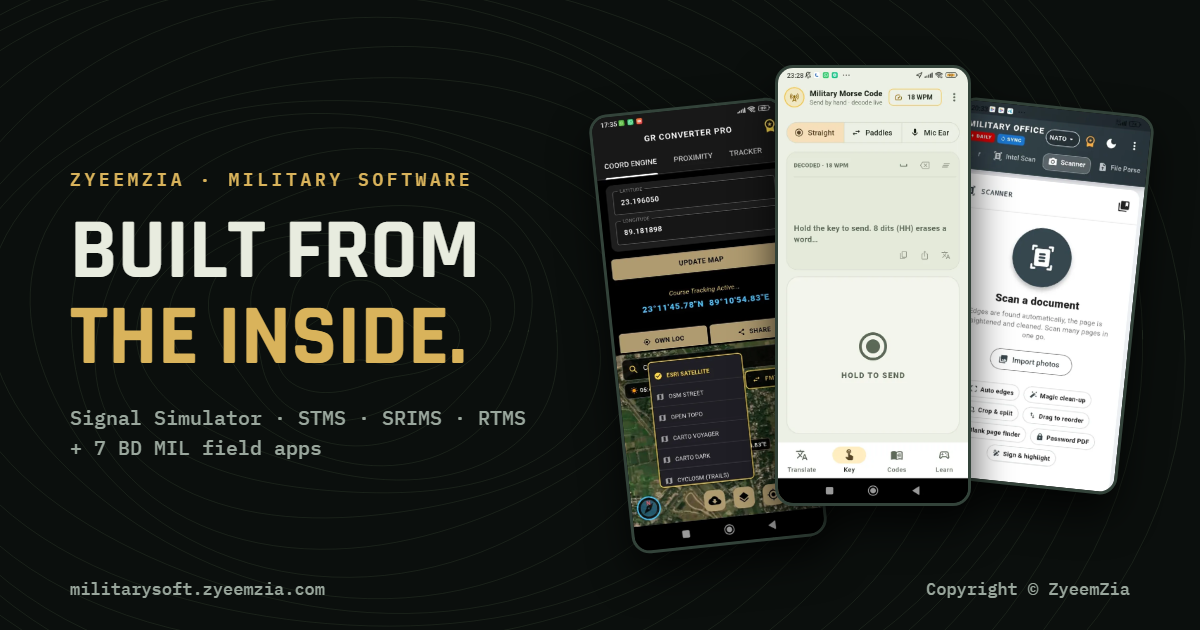
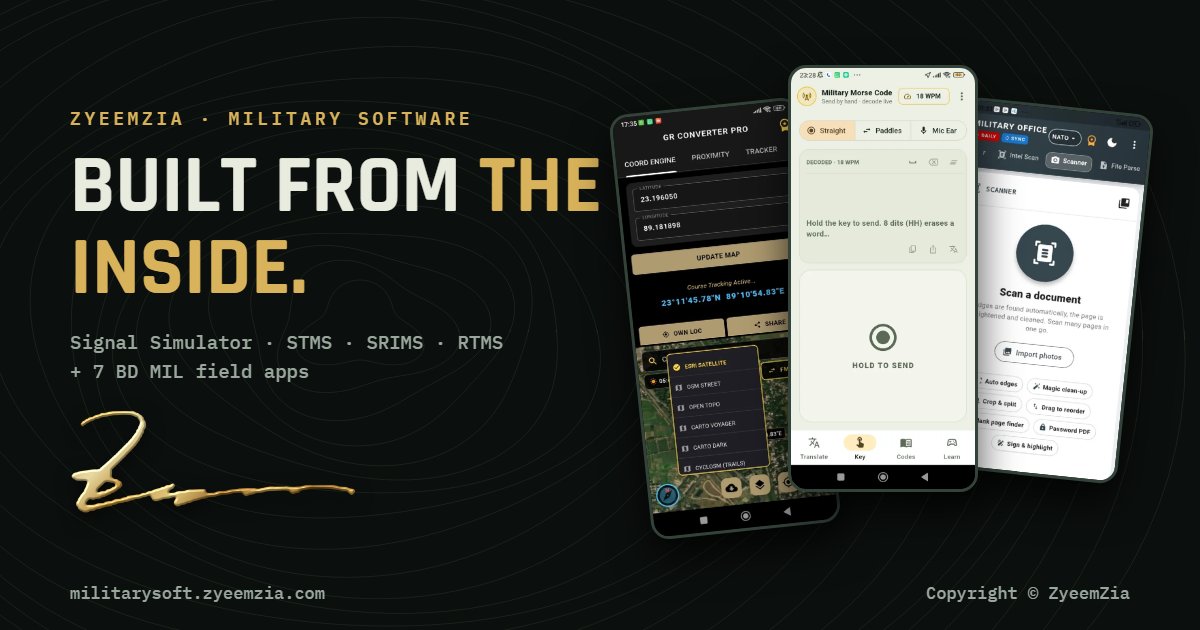
Gold signature, day and night ops themes, refreshed content
Copyright © ZyeemZia

diff --git a/style.css b/style.css
@@ -1,29 +1,42 @@
 /* Layout concept: a field-operations briefing file — night map ground with contour lines, serial-numbered
-   sections, data set in mono like a signal log, gold-leaf accent taken from the BD MIL app family. Single dark look by design. */
+   sections, data set in mono like a signal log, gold-leaf accent taken from the BD MIL app family; the developer's signature is plated in gold. Night ops (dark) and Day ops (light) themes. */
 :root {
-  --bg: #0b0f0d;
-  --bg-2: #101613;
-  --panel: #131a16;
-  --panel-2: #18211c;
-  --line: #24302a;
-  --line-2: #33433a;
-  --ink: #e8ecdf;
-  --muted: #9aa79d;
-  --dim: #6b7a70;
-  --sand: #d9b35b;
-  --sand-2: #f0d48d;
-  --olive: #8fae7e;
-  --red: #d8664f;
+  --bg: #0b0f0d; --bg-2: #101613; --panel: #131a16; --panel-2: #18211c; --line: #24302a; --line-2: #33433a;
+  --ink: #e8ecdf; --muted: #9aa79d; --dim: #6b7a70; --sand: #d9b35b; --sand-2: #f0d48d; --olive: #8fae7e; --red: #d8664f;
+  --on-sand: #0b0f0d; --contour: rgba(143,174,126,.075); --contour-major: rgba(217,179,91,.16); --grid: rgba(255,255,255,.025);
+  --shadow: rgba(0,0,0,.9); --glass: color-mix(in srgb, #0b0f0d 82%, transparent); --sign-shadow: rgba(0,0,0,.55);
+  color-scheme: dark;
   --f-display: "Rajdhani", "Bahnschrift", "Segoe UI", sans-serif;
   --f-body: "IBM Plex Sans", "Segoe UI", system-ui, sans-serif;
   --f-mono: "IBM Plex Mono", "Cascadia Mono", Consolas, monospace;
   --maxw: 1180px;
+}
+/* Day ops: survey-map paper. Follows the device setting unless the visitor picks a theme. */
+@media (prefers-color-scheme: light) { :root:not([data-theme="dark"]) {
+  --bg: #eef1ea; --bg-2: #e6eae1; --panel: #fbfcf8; --panel-2: #f1f4ec; --line: #d3dacb; --line-2: #b9c3ae;
+  --ink: #17221c; --muted: #4e5d52; --dim: #78867b; --sand: #9a7322; --sand-2: #7d5c16; --olive: #48683f; --red: #b2442f;
+  --on-sand: #fbfcf8; --contour: rgba(72,104,63,.12); --contour-major: rgba(154,115,34,.22); --grid: rgba(23,34,28,.05);
+  --shadow: rgba(40,52,38,.35); --glass: color-mix(in srgb, #eef1ea 84%, transparent); --sign-shadow: rgba(90,64,12,.35);
+  color-scheme: light;
+} }
+:root[data-theme="light"] {
+  --bg: #eef1ea; --bg-2: #e6eae1; --panel: #fbfcf8; --panel-2: #f1f4ec; --line: #d3dacb; --line-2: #b9c3ae;
+  --ink: #17221c; --muted: #4e5d52; --dim: #78867b; --sand: #9a7322; --sand-2: #7d5c16; --olive: #48683f; --red: #b2442f;
+  --on-sand: #fbfcf8; --contour: rgba(72,104,63,.12); --contour-major: rgba(154,115,34,.22); --grid: rgba(23,34,28,.05);
+  --shadow: rgba(40,52,38,.35); --glass: color-mix(in srgb, #eef1ea 84%, transparent); --sign-shadow: rgba(90,64,12,.35);
+  color-scheme: light;
+}
+:root[data-theme="dark"] {
+  --bg: #0b0f0d; --bg-2: #101613; --panel: #131a16; --panel-2: #18211c; --line: #24302a; --line-2: #33433a;
+  --ink: #e8ecdf; --muted: #9aa79d; --dim: #6b7a70; --sand: #d9b35b; --sand-2: #f0d48d; --olive: #8fae7e; --red: #d8664f;
+  --on-sand: #0b0f0d; --contour: rgba(143,174,126,.075); --contour-major: rgba(217,179,91,.16); --grid: rgba(255,255,255,.025);
+  --shadow: rgba(0,0,0,.9); --glass: color-mix(in srgb, #0b0f0d 82%, transparent); --sign-shadow: rgba(0,0,0,.55);
   color-scheme: dark;
 }
 * { box-sizing: border-box; }
 [hidden] { display: none !important; }
 html { scroll-behavior: smooth; -webkit-text-size-adjust: 100%; }
-body { margin: 0; overflow-x: clip; background: var(--bg); color: var(--ink); font: 16px/1.65 var(--f-body); }
+body { margin: 0; overflow-x: clip; background: var(--bg); color: var(--ink); transition: background-color .4s, color .4s; font: 16px/1.65 var(--f-body); }
 img { max-width: 100%; display: block; }
 a { color: var(--sand); text-decoration: none; }
 a:hover { color: var(--sand-2); }
@@ -34,10 +47,10 @@ p { margin: 0; }
 .wrap { max-width: var(--maxw); margin: 0 auto; padding-left: max(20px, env(safe-area-inset-left, 0px)); padding-right: max(20px, env(safe-area-inset-right, 0px)); }
 
 /* contour canvas sits behind everything */
-#contours { position: fixed; inset: 0; width: 100%; height: 100%; z-index: -1; opacity: .55; pointer-events: none; }
+#contours { position: fixed; inset: 0; width: 100%; height: 100%; z-index: -1; opacity: .7; pointer-events: none; }
 
 /* ---------- header ---------- */
-.top { position: sticky; top: 0; z-index: 20; background: color-mix(in srgb, var(--bg) 82%, transparent); backdrop-filter: blur(10px); -webkit-backdrop-filter: blur(10px); border-bottom: 1px solid var(--line); padding-top: env(safe-area-inset-top, 0px); }
+.top { position: sticky; top: 0; z-index: 20; background: var(--glass); backdrop-filter: blur(10px); -webkit-backdrop-filter: blur(10px); border-bottom: 1px solid var(--line); padding-top: env(safe-area-inset-top, 0px); }
 .top .wrap { display: flex; align-items: center; gap: 20px; padding-block: 12px; }
 .brand { display: flex; align-items: center; gap: 12px; color: var(--ink); }
 .brand-mark { width: 36px; height: 36px; display: grid; place-items: center; border: 1.5px solid var(--sand); color: var(--sand); font: 700 15px var(--f-display); letter-spacing: .04em; position: relative; }
@@ -49,8 +62,8 @@ p { margin: 0; }
 .nav { margin-left: auto; display: flex; gap: 4px; }
 .nav a { color: var(--muted); font: 600 14px var(--f-display); letter-spacing: .12em; text-transform: uppercase; padding: 8px 12px; border-radius: 4px; }
 .nav a:hover { color: var(--ink); background: var(--panel); }
-.nav a.cta { color: var(--bg); background: var(--sand); }
-.nav a.cta:hover { background: var(--sand-2); color: var(--bg); }
+.nav a.cta { color: var(--on-sand); background: var(--sand); }
+.nav a.cta:hover { background: var(--sand-2); color: var(--on-sand); }
 
 /* ---------- hero ---------- */
 .hero { position: relative; padding-block: 72px 56px; border-bottom: 1px solid var(--line); overflow-x: clip; }
@@ -63,8 +76,8 @@ p { margin: 0; }
 .hero-actions { display: flex; gap: 12px; flex-wrap: wrap; margin-top: 28px; }
 .btn { display: inline-flex; align-items: center; gap: 10px; padding: 12px 20px; border: 1.5px solid var(--line-2); color: var(--ink); font: 700 15px var(--f-display); letter-spacing: .14em; text-transform: uppercase; border-radius: 3px; background: var(--panel); }
 .btn:hover { border-color: var(--sand); color: var(--ink); }
-.btn.primary { background: var(--sand); color: var(--bg); border-color: var(--sand); }
-.btn.primary:hover { background: var(--sand-2); color: var(--bg); }
+.btn.primary { background: var(--sand); color: var(--on-sand); border-color: var(--sand); }
+.btn.primary:hover { background: var(--sand-2); color: var(--on-sand); }
 .btn svg { width: 16px; height: 16px; }
 
 .hero-visual { position: relative; aspect-ratio: 1 / 1; max-width: 100%; }
@@ -112,10 +125,11 @@ section.block { padding-block: 88px 40px; scroll-margin-top: 70px; }
 .mini-tl div::before { content: ""; position: absolute; left: -23.5px; top: .5em; width: 9px; height: 9px; background: var(--bg); border: 1.5px solid var(--olive); transform: rotate(45deg); }
 .mini-tl b { font: 600 12.5px var(--f-mono); color: var(--ink); letter-spacing: .06em; margin-right: 8px; }
 
-.window { border: 1px solid var(--line-2); background: var(--panel); border-radius: 6px; overflow: hidden; box-shadow: 0 24px 60px -30px rgba(0, 0, 0, .9); }
+.window { border: 1px solid var(--line-2); background: var(--panel); border-radius: 6px; overflow: hidden; box-shadow: 0 24px 60px -30px var(--shadow); }
 .window-bar { display: flex; align-items: center; gap: 7px; padding: 9px 12px; border-bottom: 1px solid var(--line); background: var(--panel-2); }
 .window-bar i { width: 10px; height: 10px; border-radius: 50%; background: var(--line-2); }
-.window-bar span { margin-left: 10px; font: 500 12px var(--f-mono); color: var(--muted); letter-spacing: .06em; white-space: nowrap; overflow: hidden; text-overflow: ellipsis; }
+.window-bar > span { margin-left: 10px; font: 500 12px var(--f-mono); color: var(--muted); letter-spacing: .06em; white-space: nowrap; overflow: hidden; text-overflow: ellipsis; min-width: 0; flex: 1; }
+.bar-seal { font-style: normal; flex-shrink: 0; }
 .window-shot { display: block; width: 100%; aspect-ratio: 16 / 10; object-fit: cover; object-position: top left; background: var(--bg-2); cursor: zoom-in; border: 0; padding: 0; }
 .window-shot img { width: 100%; height: 100%; object-fit: cover; object-position: top left; }
 .thumbs { display: flex; gap: 8px; margin-top: 10px; overflow-x: auto; padding-bottom: 4px; }
@@ -132,7 +146,7 @@ section.block { padding-block: 88px 40px; scroll-margin-top: 70px; }
 .app-top { display: flex; justify-content: space-between; align-items: baseline; gap: 8px; }
 .app-ser { font: 600 11.5px var(--f-mono); letter-spacing: .16em; color: var(--dim); }
 .app-ver { font: 600 11.5px var(--f-mono); color: var(--olive); letter-spacing: .06em; }
-.phone { position: relative; width: 62%; margin: 0 auto; aspect-ratio: 9 / 19.5; border-radius: 22px; border: 2px solid var(--line-2); background: #050706; padding: 6px; box-shadow: 0 18px 40px -22px rgba(0, 0, 0, 1); cursor: zoom-in; overflow: hidden; }
+.phone { position: relative; width: 62%; margin: 0 auto; aspect-ratio: 9 / 19.5; border-radius: 22px; border: 2px solid var(--line-2); background: #050706; padding: 6px; box-shadow: 0 18px 40px -22px var(--shadow); cursor: zoom-in; overflow: hidden; }
 .phone::before { content: ""; position: absolute; top: 9px; left: 50%; width: 30%; height: 5px; margin-left: -15%; border-radius: 4px; background: #000; z-index: 2; opacity: .8; }
 .phone img { width: 100%; height: 100%; object-fit: cover; object-position: top; border-radius: 16px; transition: opacity .5s; }
 .phone .feature-face { width: 100%; height: 100%; border-radius: 16px; background: linear-gradient(170deg, #1d2a1f, #0b100d); display: flex; flex-direction: column; justify-content: center; gap: 8px; padding: 18px 14px; }
@@ -144,7 +158,7 @@ section.block { padding-block: 88px 40px; scroll-margin-top: 70px; }
 .app .meta b { color: var(--ink); font-weight: 600; }
 .app .open { align-self: flex-start; font: 700 13px var(--f-display); letter-spacing: .16em; text-transform: uppercase; background: none; border: 0; color: var(--sand); padding: 0; cursor: pointer; }
 .app .open:hover { color: var(--sand-2); }
-.badge-web { position: absolute; top: 18px; right: 20px; font: 600 10.5px var(--f-mono); letter-spacing: .14em; color: var(--bg); background: var(--olive); padding: 2px 7px; }
+.badge-web { position: absolute; top: 18px; right: 20px; font: 600 10.5px var(--f-mono); letter-spacing: .14em; color: var(--on-sand); background: var(--olive); padding: 2px 7px; }
 
 /* ---------- timeline ---------- */
 .timeline { position: relative; display: grid; gap: 0; }
@@ -217,3 +231,36 @@ footer a:hover { color: var(--sand); }
   .lb-stage { grid-template-columns: 40px minmax(0, 1fr) 40px; }
   .lb button.nav-b { width: 38px; height: 38px; }
 }
+
+/* ---------- theme switch: DAY OPS / NIGHT OPS ---------- */
+.ops { display: inline-flex; align-items: center; gap: 0; border: 1px solid var(--line-2); border-radius: 999px; padding: 3px; background: var(--panel); cursor: pointer; font: 700 11.5px var(--f-mono); letter-spacing: .12em; color: var(--muted); }
+.ops span { display: inline-flex; align-items: center; gap: 6px; padding: 5px 10px; border-radius: 999px; transition: background .3s, color .3s; white-space: nowrap; }
+.ops svg { width: 14px; height: 14px; }
+.ops[data-mode="light"] .day, .ops[data-mode="dark"] .night { background: var(--sand); color: var(--on-sand); }
+
+/* ---------- gold signature ---------- */
+.sign { position: relative; display: inline-block; line-height: 0; }
+.sign img { width: 100%; height: auto; filter: drop-shadow(0 6px 9px var(--sign-shadow)) drop-shadow(0 1px 0 rgba(255, 240, 200, .35)); }
+.sign::after { content: ""; position: absolute; inset: 0; pointer-events: none;
+  background: linear-gradient(105deg, transparent 42%, rgba(255, 251, 235, .95) 50%, transparent 58%) no-repeat; background-size: 260% 100%; background-position: 140% 0;
+  -webkit-mask: url("img/brand/signature-mask.png") center / 100% 100% no-repeat; mask: url("img/brand/signature-mask.png") center / 100% 100% no-repeat;
+  mix-blend-mode: screen; animation: glint 6s ease-in-out infinite 1.2s; }
+@keyframes glint { 0%, 55% { background-position: 140% 0; } 85%, 100% { background-position: -40% 0; } }
+.signoff { margin-top: 26px; display: grid; gap: 2px; justify-items: start; }
+.signoff-label { font: 500 11.5px var(--f-mono); letter-spacing: .16em; text-transform: uppercase; color: var(--dim); }
+.signoff .sign { width: min(300px, 72%); margin: -4px 0 -8px -6px; }
+.signoff-name { font: 600 14px var(--f-display); letter-spacing: .14em; text-transform: uppercase; color: var(--muted); border-top: 1px solid var(--line-2); padding-top: 6px; min-width: 240px; }
+.sigblock { margin-top: 26px; display: grid; justify-items: start; gap: 1px; padding: 18px 0 0; }
+.sigblock .sign { width: 220px; margin-left: -6px; }
+.sigblock b { font: 700 18px var(--f-display); letter-spacing: .1em; text-transform: uppercase; color: var(--ink); border-top: 1px solid var(--line-2); padding-top: 6px; min-width: 220px; }
+.sigblock span { font: 500 13px var(--f-mono); color: var(--muted); letter-spacing: .04em; }
+.bar-seal { margin-left: auto; display: inline-flex; align-items: center; gap: 8px; font: 600 10px var(--f-mono); letter-spacing: .16em; color: var(--sand); white-space: nowrap; }
+.bar-seal img { height: 18px; width: auto; filter: drop-shadow(0 1px 2px var(--sign-shadow)); }
+.foot-sign { display: inline-flex; align-items: center; gap: 12px; }
+.foot-sign img { height: 26px; width: auto; filter: drop-shadow(0 2px 3px var(--sign-shadow)); }
+@media (max-width: 620px) { .bar-seal span { display: none; } .ops .label { display: none; } .ops span { padding: 6px 8px; } }
+
+@media (max-width: 1240px) { .ops .label { display: none; } .ops span { padding: 6px 9px; } }
+@media (max-width: 1080px) { .nav a:not(.cta) { display: none; } }
+.top .wrap { gap: 14px; }
+.ops { flex-shrink: 0; }

diff --git a/data-systems.js b/data-systems.js
@@ -14,13 +14,13 @@ MS.systems = [
       'Runs fully offline on one PC with offline map tiles and signed updates'
     ],
     tech: ['Python', 'Flask', 'SQLite', 'Leaflet', 'Offline tiles', 'Signed updates', 'Windows .exe'],
-    history: [['SEP 26', 'Built on the shared STC&S framework, replacing a legacy civil-supplier simulator'], ['09 OCT 26', 'Version 2.0.0 — first stamped build'], ['14 OCT 26', 'Version 2.0.3 deployed with a teaching-scenario library'], ['18 OCT 26', 'Version 3.0.2 — 680 automated tests and a 60-screen user manual']],
+    history: [['SEP 26', 'Design begins: map workspace, equipment catalogue and the physics engines'], ['09 OCT 26', 'Version 2.0.0 — first stamped build'], ['14 OCT 26', 'Version 2.0.3 deployed with a teaching-scenario library'], ['18 OCT 26', 'Version 3.0.2 — 680 automated tests and a 60-screen user manual']],
     shots: [['sim-hf-map', 'HF wireless path on the training map, with map layers'], ['sim-hf-config', 'HF Config wizard: antenna, ionosphere and Max Usable Frequency'], ['sim-cable-config', 'Cable configuration: ports, laying type, uplink and downlink']]
   },
   {
     id: 'stms', code: 'STMS', name: 'Training Management', full: 'Signal Training Management System',
     window: 'STC&S Training Management System',
-    summary: 'Runs the whole training year of a military school in one offline web system: the yearly plan, running courses, weekly programmes, attendance and parade state, question banks, marks, result sheets and official course reports in the unit’s own Bangla and English formats. It reproduces every function of the commercial package it replaced, in the same menu order, and adds what that package never had.',
+    summary: 'Runs the whole training year of a military school in one offline web system: the yearly plan, running courses, weekly programmes, attendance and parade state, question banks, marks, result sheets and official course reports in the unit’s own Bangla and English formats. On top of the daily administration it adds a smart calendar, timetable clash detection, file sharing and multi-stage approvals.',
     features: [
       'Yearly training plan with four-stage approval',
       'Week planner that catches instructor, room and course clashes before they happen',
@@ -30,28 +30,28 @@ MS.systems = [
       'File-sharing drive with per-person, group and course rights'
     ],
     tech: ['Python', 'Flask', 'SQLite (WAL)', 'Bangla / English', 'Signed updates', 'Windows .exe'],
-    history: [['24 SEP 26', 'Started: the legacy system specified function by function'], ['30 SEP 26', 'Version 2.0 — every legacy function plus calendar, file sharing and approvals'], ['14 OCT 26', 'Version 2.0.3 deployed on the unit server — 861 automated tests'], ['18 OCT 26', 'Version 3.0.2 — the unit’s own report formats; load-tested at 5,400 students']],
+    history: [['24 SEP 26', 'Development begins with the training wing, screen by screen'], ['30 SEP 26', 'Version 2.0 — first complete release with calendar, file sharing and approvals'], ['14 OCT 26', 'Version 2.0.3 deployed on the unit server — 861 automated tests'], ['18 OCT 26', 'Version 3.0.2 — the unit’s own report formats; load-tested at 5,400 students']],
     shots: [['stms-dashboard', 'Administrator dashboard: class in progress, next classes and alerts (demo data)'], ['stms-calendar', 'Smart calendar with filters for classes, exams and events'], ['stms-drive', 'File-sharing drive'], ['stms-health', 'System health check: version, database integrity, backups']]
   },
   {
     id: 'srims', code: 'SRIMS', name: 'Signal Records', full: 'Signal Records Information Management System',
     window: 'SRIMS — Signal Records Information Management System',
-    summary: 'The service-record system of the Corps of Signals: tens of thousands of records covering postings, promotions, missions, qualifications, allowances, retirement and pension, with more than 60 printable reports. The system first went into service in 2018 through a civil supplier. In 2026 it was rebuilt in Python, then taken in-house and modernised: faults fixed, new reports added, slow reports made dramatically faster, and the whole system packed into one self-contained folder.',
+    summary: 'The service-record system of the Corps of Signals: tens of thousands of records covering postings, promotions, missions, qualifications, allowances, retirement and pension, with more than 60 printable reports. Re-engineered in 2026 with the records office: faults fixed, new reports added, slow reports made dramatically faster, and the whole system packed into one self-contained folder that backs itself up.',
     features: [
-      'Same Setup, Data Entry and Reports menus the records office already knows',
+      'Setup, Data Entry and Reports across 165+ screens',
       'Report speed-ups of up to 34× — one search went from 512 s to 15 s',
       'New reports, including strength as at any past date',
       'Automatic verified, compressed backups every four hours, with one-click restore',
       'Server-enforced screen rights for every user',
       'One portable folder: web server, database and runtime bundled, nothing to install'
     ],
-    tech: ['PHP / Laravel', 'MariaDB', 'Python tooling', 'Python rebuild (Flask, SQLite)', 'Portable bundle'],
-    history: [['2018', 'Original system in service, built by a civil supplier'], ['20 SEP 26', 'Python rebuild begins, refined through five rounds of office feedback'], ['13 OCT 26', 'Original application taken in-house as SRIMS W'], ['14 OCT 26', 'SRIMS W 2.0.8 deployed — 30+ office-reported issues closed'], ['18 OCT 26', 'SRIMS W 3.0.2']],
+    tech: ['PHP / Laravel', 'MariaDB', 'Python', 'Flask', 'Portable bundle'],
+    history: [['20 SEP 26', 'Work begins with the records office, refined through five rounds of feedback'], ['08 OCT 26', 'Version 2.0.3 — signed updates, Last Pay Certificate and seniority roll'], ['14 OCT 26', 'Version 2.0.8 deployed — 30+ office-reported issues closed'], ['18 OCT 26', 'Version 3.0.2 — automatic verified backups and new strength reports']],
     shots: [['srims-signin', 'Sign-in screen'], ['srims-home', 'Home screen with Setup, Data Entry and Reports (figures blurred)'], ['srims-backup', 'Backup page: automatic four-hourly verified backups (figures blurred)']]
   },
   {
     id: 'rtms', code: 'RTMS', name: 'Recruit Training', full: 'Recruit Training Management System',
-    window: 'RECT TRG MGT SYS — Analytical Data Hub',
+    window: 'RTMS — Analytical Data Hub',
     summary: 'Turns recruit training results into decisions. RTMS reads a training centre’s result workbooks — or its own results database — and produces live dashboards, company and platoon rankings, early-warning risk lists, heatmaps, distributions and ready-to-print Word and Excel reports. It is multi-institution: each centre sees only its own recruits, with optional comparison across centres.',
     features: [
       'Overview dashboard with batch health, pass rates and subject grade cards',
@@ -62,7 +62,7 @@ MS.systems = [
       'Export Studio, Word result report builder and print-ready PDF'
     ],
     tech: ['Python', 'Flask', 'pandas', 'NumPy', 'openpyxl', 'SQLite', 'Offline charts'],
-    history: [['JUL 26', 'Project begins'], ['17 AUG 26', 'First result-dashboard prototype reading the result workbook'], ['SEP 26', 'Becomes RECT TRG MGT SYS: analytics, comparison, import and export'], ['15 OCT 26', 'Version 3.0.0 — full edition with its own results database'], ['18 OCT 26', 'Version 3.0.2 — workbook support for more training centres']],
+    history: [['JUL 26', 'Project begins'], ['17 AUG 26', 'First result-dashboard prototype reading the result workbook'], ['SEP 26', 'Grows into the full analytics hub: comparison, import and export'], ['15 OCT 26', 'Version 3.0.0 — full edition with its own results database'], ['18 OCT 26', 'Version 3.0.2 — workbook support for more training centres']],
     shots: [['rtms-heatmap', 'Performance heatmap: platoon by subject'], ['rtms-distribution', 'Statistical normal distribution of batch scores'], ['rtms-lab', 'Advanced Analysis Lab']]
   }
 ];
@@ -79,15 +79,14 @@ MS.timeline = [
   ] },
   { label: 'PHASE 2', span: 'SEP 26 · Unit systems', events: [
     { date: '11 SEP 26', title: 'BD MIL OFFICE & Morse Code', text: 'an offline office suite and a signal trainer ship the same day' },
-    { date: '20 SEP 26', title: 'SRIMS rebuild', text: 'the records system is rebuilt in Python with the records office', desk: true },
-    { date: '24 SEP 26', title: 'STMS', text: 'training management begins, specified screen by screen', desk: true },
+    { date: '20 SEP 26', title: 'SRIMS', text: 'work on the records system begins with the records office', desk: true },
+    { date: '24 SEP 26', title: 'STMS', text: 'training management begins, built screen by screen with the training wing', desk: true },
     { date: '25 SEP 26', title: 'Signal Simulator', text: 'work starts on the physics engine', desk: true },
     { date: '30 SEP 26', title: 'STMS 2.0 & ABBR WEB', text: 'first complete STMS release; the dictionary comes to the browser', desk: false }
   ] },
   { label: 'PHASE 3', span: 'OCT 26 · Deployment', events: [
     { date: '09 OCT 26', title: 'Simulator 2.0.0', text: 'first stamped build', desk: true },
-    { date: '13 OCT 26', title: 'SRIMS W', text: 'the original records application taken in-house and modernised', desk: true },
-    { date: '14 OCT 26', title: 'Deployment day', text: 'STMS, Simulator and SRIMS W go live on unit servers', desk: true },
+    { date: '14 OCT 26', title: 'Deployment day', text: 'STMS, Signal Simulator and SRIMS go live on unit servers', desk: true },
     { date: '16 OCT 26', title: 'BD MIL GADGET', text: 'the all-in-one field suite joins the family' },
     { date: '18 OCT 26', title: 'Version 3.0.2', text: 'all four unit systems reach their current delivery builds', desk: true }
   ] }

diff --git a/index.html b/index.html
@@ -22,7 +22,8 @@
 <link rel="preconnect" href="https://fonts.googleapis.com">
 <link rel="preconnect" href="https://fonts.gstatic.com" crossorigin>
 <link rel="stylesheet" href="https://fonts.googleapis.com/css2?family=Rajdhani:wght@500;600;700&family=IBM+Plex+Sans:wght@400;500;600&family=IBM+Plex+Mono:wght@400;500;600&display=swap">
-<link rel="stylesheet" href="style.css?v=4">
+<link rel="stylesheet" href="style.css?v=7">
+<script>try{var t=localStorage.getItem("ms-theme");if(t==="light"||t==="dark")document.documentElement.setAttribute("data-theme",t)}catch(e){}</script>
 </head>
 <body>
 <canvas id="contours" aria-hidden="true"></canvas>
@@ -40,6 +41,7 @@
       <a href="#about-sec">Approach</a>
       <a class="cta" href="https://bdmil.zyeemzia.com/" target="_blank" rel="noopener">Downloads</a>
     </nav>
+    <button class="ops" id="opsSwitch" type="button" aria-label="Switch between day and night theme"><span class="day"><svg viewBox="0 0 24 24" fill="none" stroke="currentColor" stroke-width="2" stroke-linecap="round" aria-hidden="true"><circle cx="12" cy="12" r="4"/><path d="M12 2v2M12 20v2M4.9 4.9l1.4 1.4M17.7 17.7l1.4 1.4M2 12h2M20 12h2M4.9 19.1l1.4-1.4M17.7 6.3l1.4-1.4"/></svg><b class="label">DAY OPS</b></span><span class="night"><svg viewBox="0 0 24 24" fill="none" stroke="currentColor" stroke-width="2" stroke-linecap="round" aria-hidden="true"><path d="M20 14.5A8 8 0 1 1 9.5 4a6.5 6.5 0 0 0 10.5 10.5z"/></svg><b class="label">NIGHT OPS</b></span></button>
   </div>
 </header>
 
@@ -50,6 +52,11 @@
         <div class="eyebrow">Portfolio · Bangladesh military software · 2026</div>
         <h1>Military software, <em>built from the inside.</em></h1>
         <p class="lead">Four unit systems that run simulation, training and records at the Corps of Signals, and a field suite of seven offline Android and web apps for BD MIL operators — designed, written, tested and shipped by Zyeem Bin Zia.</p>
+        <div class="signoff">
+          <span class="signoff-label">Designed, written &amp; signed off by</span>
+          <span class="sign"><img src="img/brand/signature-gold.webp" width="1000" height="386" alt="Signature of Zyeem Bin Zia"></span>
+          <span class="signoff-name">Zyeem Bin Zia · Developer &amp; Publisher</span>
+        </div>
         <div class="hero-actions">
           <a class="btn primary" href="#systems-sec">See the systems</a>
           <a class="btn" href="#apps-sec">Field apps</a>
@@ -117,11 +124,17 @@
         <div>
           <p>Every program here was written to answer a specific problem in a specific office: an instructor who needs to know why a radio link failed, a training wing juggling hundreds of lessons a week, a records office waiting minutes for a report, a centre turning result sheets into decisions.</p>
           <p>They share one discipline. They run on the equipment a unit already has, keep working when the network does not, and are tested before they reach a user. The field apps follow the same rules on a phone.</p>
-          <p>Developer and publisher: <b style="color:var(--ink)">Zyeem Bin Zia</b> · <a href="https://www.zyeemzia.com" target="_blank" rel="noopener">ZyeemZia</a></p>
+          <div class="sigblock">
+            <span class="sign"><img src="img/brand/signature-gold-sm.webp" width="480" height="185" alt="Signature of Zyeem Bin Zia" loading="lazy"></span>
+            <b>Zyeem Bin Zia</b>
+            <span>Developer &amp; Publisher</span>
+            <span><a href="https://www.zyeemzia.com" target="_blank" rel="noopener">ZyeemZia</a></span>
+            <span>19 OCT 26</span>
+          </div>
         </div>
         <div class="principles">
           <div class="principle"><b>Offline first</b><span>No internet, no cloud keys, no outside maps or weather services. Everything the program needs ships in its own folder.</span></div>
-          <div class="principle"><b>Built with the users</b><span>Specified screen by screen against the systems people already used, then refined through rounds of feedback from the office floor.</span></div>
+          <div class="principle"><b>Built with the users</b><span>Shaped screen by screen with the people who use them every day, then refined through rounds of feedback from the office floor.</span></div>
           <div class="principle"><b>Tested like kit</b><span>More than 1,500 automated tests across the unit systems, plus acceptance checklists before every deployment.</span></div>
           <div class="principle"><b>One folder, signed updates</b><span>Single-folder installs, automatic verified backups, and updates signed so only genuine builds can be applied.</span></div>
         </div>
@@ -132,7 +145,7 @@
 
 <footer>
   <div class="wrap">
-    <span>Copyright © ZyeemZia</span>
+    <span class="foot-sign"><img src="img/brand/signature-gold-sm.webp" width="480" height="185" alt="" loading="lazy">Copyright © ZyeemZia</span>
     <span><a href="https://bdmil.zyeemzia.com/" target="_blank" rel="noopener">BD MIL downloads</a> · <a href="https://www.zyeemzia.com" target="_blank" rel="noopener">zyeemzia.com</a> · <a href="https://policy.zyeemzia.com" target="_blank" rel="noopener">Policy</a></span>
   </div>
 </footer>
@@ -140,7 +153,7 @@
 <div class="lb" id="lb" role="dialog" aria-modal="true" aria-label="Screenshot viewer" hidden></div>
 
 <script src="data-apps.js?v=2"></script>
-<script src="data-systems.js?v=1"></script>
-<script src="app.js?v=1"></script>
+<script src="data-systems.js?v=2"></script>
+<script src="app.js?v=2"></script>
 </body>
 </html>

diff --git a/app.js b/app.js
@@ -16,6 +16,8 @@
     const c = $('#contours'); if (!c) return;
     const x = c.getContext('2d');
     const draw = () => {
+      const cs = getComputedStyle(document.documentElement);
+      const cMinor = cs.getPropertyValue('--contour').trim(), cMajor = cs.getPropertyValue('--contour-major').trim(), cGrid = cs.getPropertyValue('--grid').trim();
       const dpr = Math.min(2, devicePixelRatio || 1), W = innerWidth, H = innerHeight;
       c.width = W * dpr; c.height = H * dpr; x.setTransform(dpr, 0, 0, dpr, 0, 0); x.clearRect(0, 0, W, H);
       // smooth height field from a few gaussian hills
@@ -25,7 +27,7 @@
       for (let j = 0; j < rows; j++) { g[j] = []; for (let i = 0; i < cols; i++) g[j][i] = f(i * step, j * step); }
       x.lineWidth = 1;
       for (let k = 1; k <= 14; k++) {
-        const lvl = k * .085; x.strokeStyle = k % 5 === 0 ? 'rgba(217,179,91,.16)' : 'rgba(143,174,126,.075)'; x.beginPath();
+        const lvl = k * .085; x.strokeStyle = k % 5 === 0 ? cMajor : cMinor; x.beginPath();
         for (let j = 0; j < rows - 1; j++) for (let i = 0; i < cols - 1; i++) {
           const a = g[j][i], b = g[j][i + 1], cc = g[j + 1][i + 1], d = g[j + 1][i];
           const idx = (a > lvl) | ((b > lvl) << 1) | ((cc > lvl) << 2) | ((d > lvl) << 3);
@@ -38,10 +40,11 @@
         x.stroke();
       }
       // grid
-      x.strokeStyle = 'rgba(255,255,255,.025)';
+      x.strokeStyle = cGrid;
       x.beginPath(); for (let i = 0; i < W; i += 120) { x.moveTo(i, 0); x.lineTo(i, H); } for (let j = 0; j < H; j += 120) { x.moveTo(0, j); x.lineTo(W, j); } x.stroke();
     };
     draw(); let t; addEventListener('resize', () => { clearTimeout(t); t = setTimeout(draw, 200); });
+    MS.redrawContours = draw;
   }
 
   /* ---------- lightbox ---------- */
@@ -80,7 +83,7 @@
         </div>
         <div class="sys-media">
           ${s.shots.length ? `
-          <div class="window"><div class="window-bar"><i></i><i></i><i></i><span>${esc(s.window || s.name)}</span></div>
+          <div class="window"><div class="window-bar"><i></i><i></i><i></i><span>${esc(s.window || s.name)}</span><em class="bar-seal" title="Signed build"><span>SIGNED BUILD</span><img src="img/brand/signature-gold-sm.webp" alt="" loading="lazy"></em></div>
             <button class="window-shot" type="button" data-sys="${n}" data-i="0" aria-label="Enlarge screenshot"><img src="${img('systems', s.shots[0][0])}" alt="${esc(s.shots[0][1])}" loading="lazy"></button></div>
           <div class="caption" id="cap-${n}">${esc(s.shots[0][1])}</div>
           ${s.shots.length > 1 ? `<div class="thumbs" role="group" aria-label="Screenshots">${s.shots.map((sh, i) => `<button type="button" data-thumb="${n}:${i}" aria-pressed="${i === 0}" aria-label="${esc(sh[1])}"><img src="${img('systems', sh[0])}" alt="" loading="lazy"></button>`).join('')}</div>` : ''}`
@@ -172,6 +175,22 @@
     document.querySelectorAll('.reveal').forEach(el => { if (el.getBoundingClientRect().top > innerHeight) { el.classList.add('pending'); io.observe(el); } });
   }
 
-  contours(); renderStats(); renderSystems(); renderApps(); renderTimeline(); reveal();
+  /* ---------- DAY OPS / NIGHT OPS ---------- */
+  function themeSwitch() {
+    const btn = $('#opsSwitch'); if (!btn) return;
+    const mq = matchMedia('(prefers-color-scheme: light)');
+    const current = () => document.documentElement.getAttribute('data-theme') || (mq.matches ? 'light' : 'dark');
+    const sync = () => { const m = current(); btn.dataset.mode = m; btn.setAttribute('aria-pressed', m === 'light'); btn.title = m === 'light' ? 'Day ops — switch to night' : 'Night ops — switch to day'; if (MS.redrawContours) MS.redrawContours(); };
+    btn.addEventListener('click', () => {
+      const next = current() === 'light' ? 'dark' : 'light';
+      document.documentElement.setAttribute('data-theme', next);
+      try { localStorage.setItem('ms-theme', next); } catch (e) { /* storage blocked */ }
+      sync();
+    });
+    mq.addEventListener('change', () => { if (!document.documentElement.getAttribute('data-theme')) sync(); });
+    sync();
+  }
+
+  contours(); themeSwitch(); renderStats(); renderSystems(); renderApps(); renderTimeline(); reveal();
   const y = $('#year'); if (y) y.textContent = new Date().getFullYear();
 })();
